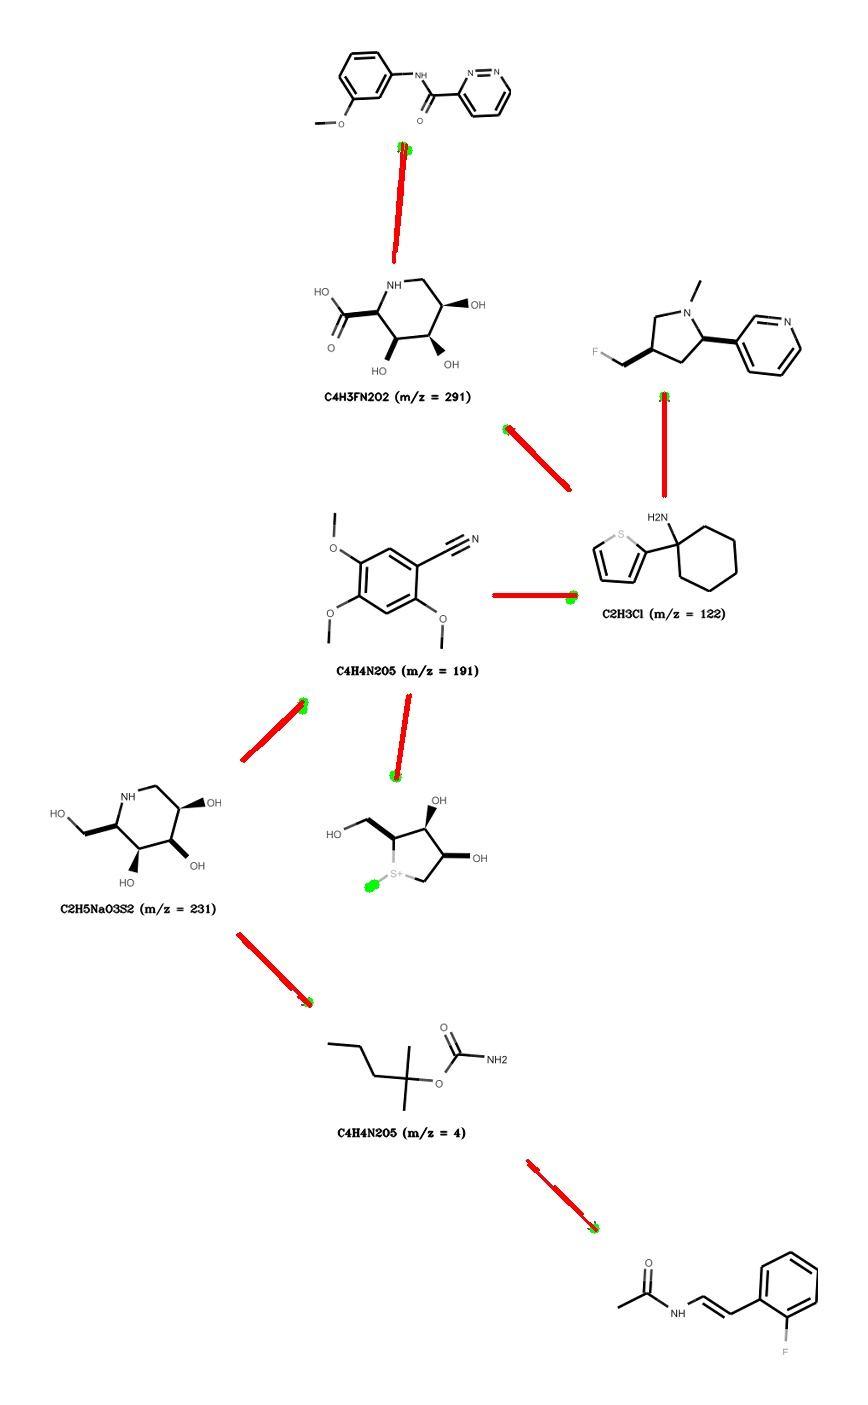
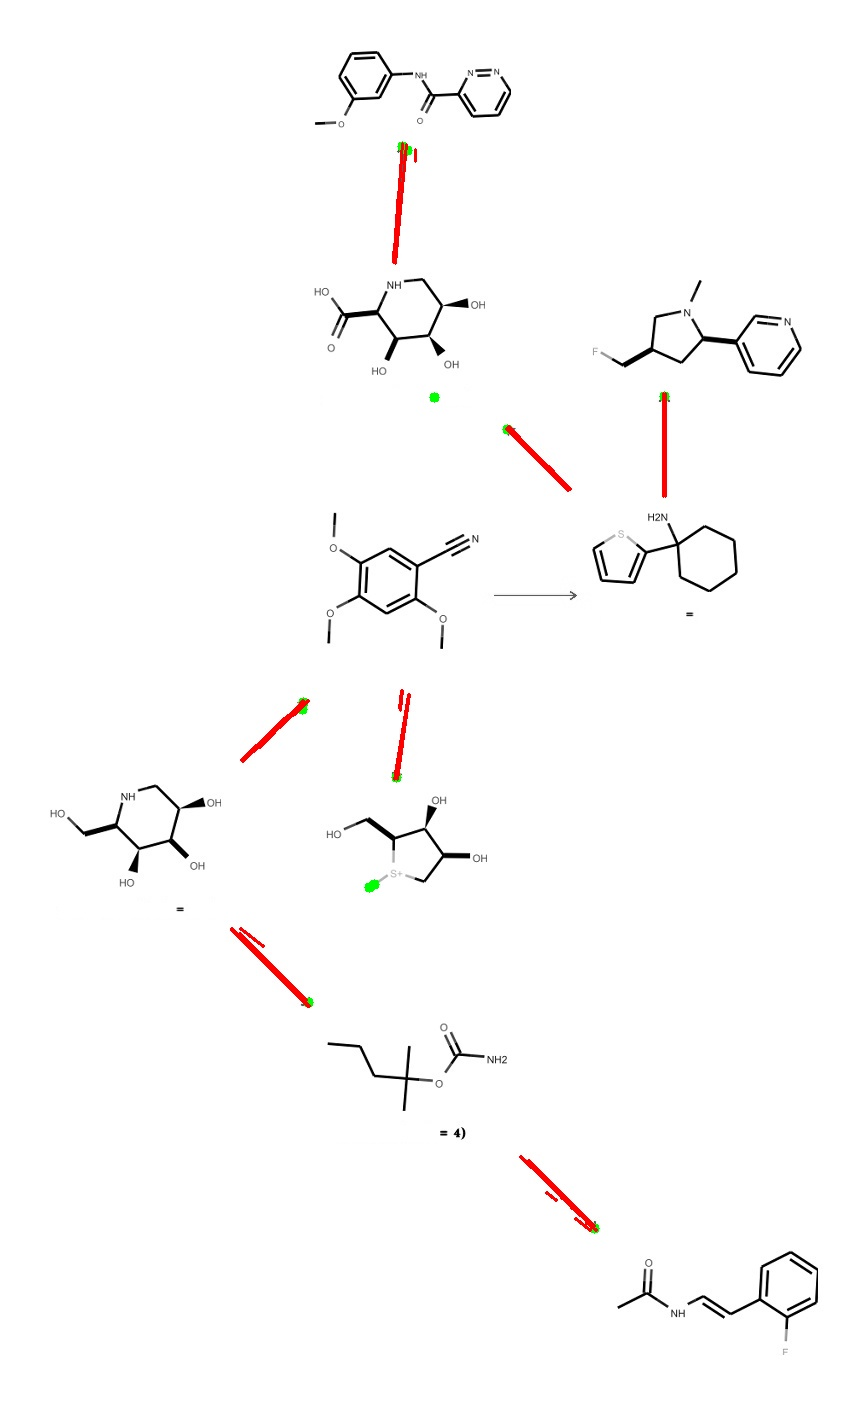
latest version

diff --git a/new_scripts/arrow_line_recognition.py b/new_scripts/arrow_line_recognition.py
@@ -104,7 +104,7 @@ def get_rotated_bounding_box(x1, y1, x2, y2, threshold=20):
     return box, rect
 
 
-def find_lines_intersecting_components(detected_lines, labels, threshold=10):
+def find_lines_intersecting_components(detected_lines, labels, centroids, threshold=10):
     intersecting_lines = []
     visited_lines = set()
     # İlk centroid arka plan olduğundan, onu atlıyoruz
@@ -126,8 +126,8 @@ def find_lines_intersecting_components(detected_lines, labels, threshold=10):
                 break  # Her centroid için yalnızca bir çizgiyi ekle
     return intersecting_lines
 
-'''
-def find_intersecting_lines(detected_lines, intersecting_lines, visited_lines, x1, x2, y1, y2, threshold = 5):
+
+def find_intersecting_lines(detected_lines, intersecting_lines, visited_lines, x1, x2, y1, y2, threshold = 10):
     
     # Çizginin bounding box'ını hesapla
             x_min = min(x1, x2) - threshold
@@ -160,14 +160,14 @@ def find_intersecting_lines(detected_lines, intersecting_lines, visited_lines, x
                 intersecting_lines.append(((X1, Y1), (X2, Y2)))
                 visited_lines.add(((X1, Y1), (X2, Y2)))
                 find_intersecting_lines(detected_lines, intersecting_lines, visited_lines, X1, X2, Y1, Y2, threshold)
-
-def get_result(image, model_path):
-        binary_mask = detect_arrow_heads(image_path, model_path)
-        original_image = cv2.imread(image_path, cv2.IMREAD_GRAYSCALE)
-        num_labels, labels, stats, centroids = connected_components_analysis(binary_mask, original_image)
-        detected_lines = detect_lines(original_image)
-        intersecting_lines = find_lines_intersecting_components(detected_lines, labels)
-        visualize_results(original_image, centroids, intersecting_lines) 
+'''
+def get_result(image_path, model_path):
+    binary_mask = detect_arrow_heads(image_path, model_path)
+    original_image = cv2.imread(image_path, cv2.IMREAD_GRAYSCALE)
+    num_labels, labels, stats, centroids = connected_components_analysis(binary_mask, original_image)
+    detected_lines = detect_lines(original_image)
+    intersecting_lines = find_lines_intersecting_components(detected_lines, labels, centroids)  # centroids eklendi
+    visualize_results(original_image, centroids, intersecting_lines)
 
 
 if __name__ == "__main__":
@@ -178,13 +178,13 @@ if __name__ == "__main__":
     model_name = 'unet_model_512.keras'
     image_path = os.path.join(base_path, test_images, image_name)
     model_path = os.path.join(base_path, model_name)
-
+    
+    
     # Arrow head detection
     binary_mask = detect_arrow_heads(image_path, model_path)
 
     # Görüntüyü tekrar yükleyin
     original_image = cv2.imread(image_path, cv2.IMREAD_GRAYSCALE)
-    #no_text_image = remove_text_from_image(image_path)
 
     # Connected Components Analysis
     num_labels, labels, stats, centroids = connected_components_analysis(binary_mask, original_image)
@@ -193,7 +193,7 @@ if __name__ == "__main__":
     detected_lines = detect_lines(original_image)
 
     #eskisi
-    intersecting_lines = find_lines_intersecting_components(detected_lines, labels)
+    intersecting_lines = find_lines_intersecting_components(detected_lines, labels, centroids)
     
     # Sonuçları görselleştir
     visualize_results(original_image, centroids, intersecting_lines)

diff --git a/new_scripts/process_image.py b/new_scripts/process_image.py
@@ -6,7 +6,7 @@ import tensorflow as tf
 import os
 from tensorflow.keras.models import load_model
 import matplotlib.pyplot as plt
-import remove_text
+from remove_text import remove_text
 from arrow_line_recognition import get_result
 
 
@@ -14,13 +14,16 @@ from arrow_line_recognition import get_result
 if __name__ == '__main__' :
     base_path = os.getcwd()
     test_images = 'test_images'
+    output_images = 'output_images'
     image_name = '1.jpg'
     model_name = 'unet_model_512.keras'
     image_path = os.path.join(base_path, test_images, image_name)
+    output_image_path = os.path.join(base_path, output_images, image_name)
     model_path = os.path.join(base_path, model_name)
     
+    remove_text(image_path, output_image_path)
 
-    get_result(image_path, model_path)
+    get_result(output_image_path, model_path)
 
 
 

diff --git a/new_scripts/remove_text.py b/new_scripts/remove_text.py
@@ -44,7 +44,7 @@ test_images = 'test_images'
 image_name = '4.jpeg'
 output_images = 'output_images'
 input_image_path = os.path.join(base_path, test_images, image_name)  # Input file
-output_image_path = os.path.join(base_path,output_images,'output4.jpeg') # Output file
+output_image_path = os.path.join(base_path,output_images,'output.jpeg') # Output file
 
 remove_text(input_image_path, output_image_path)
 
